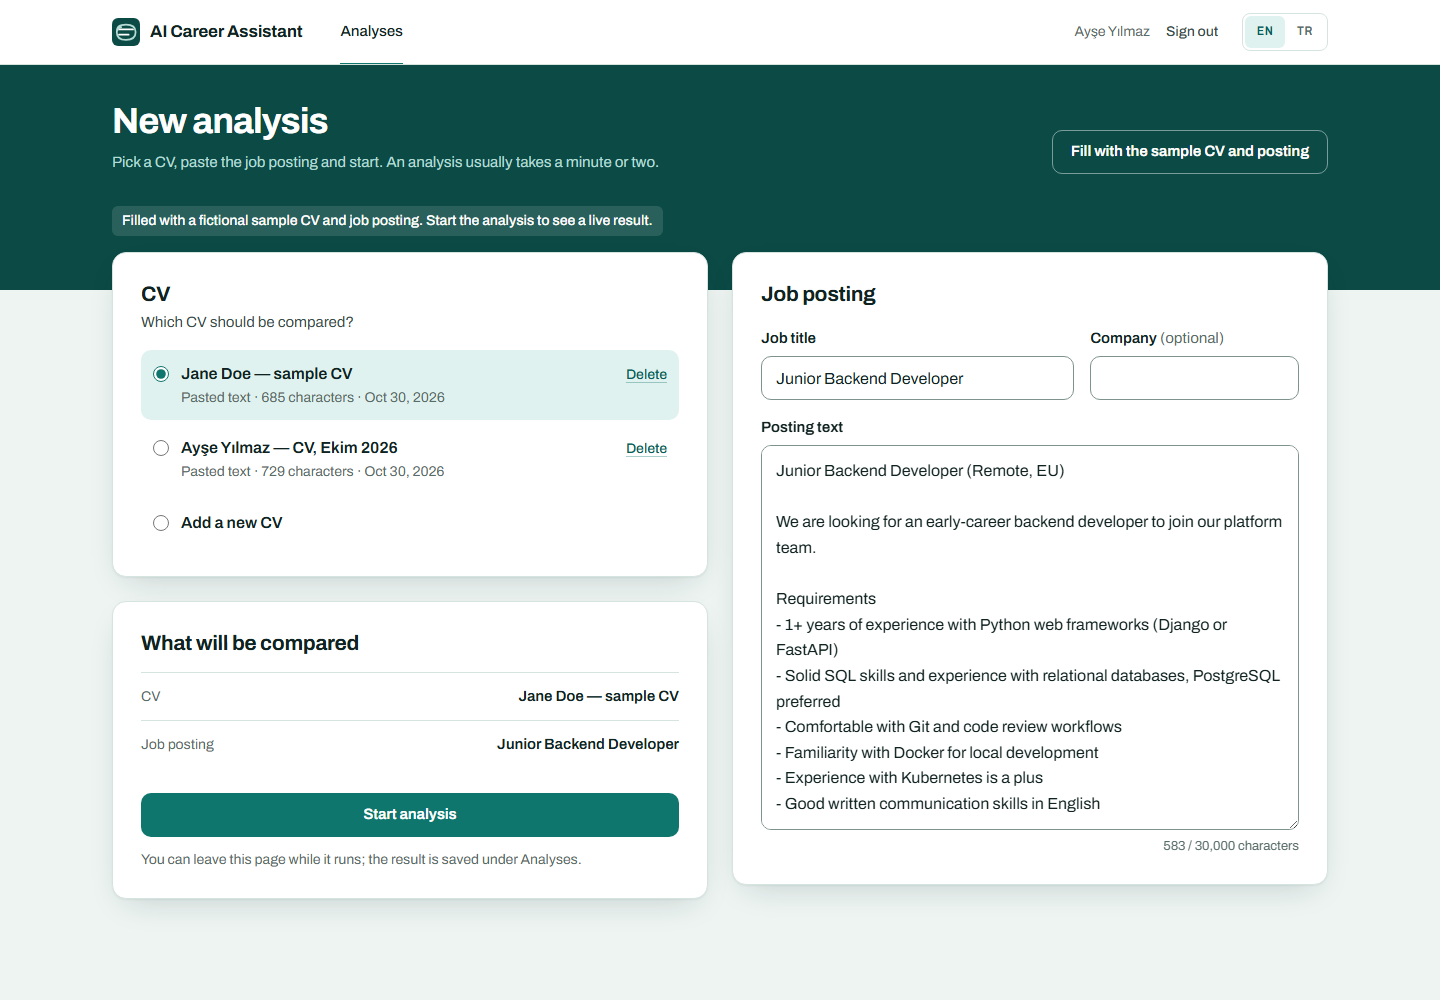
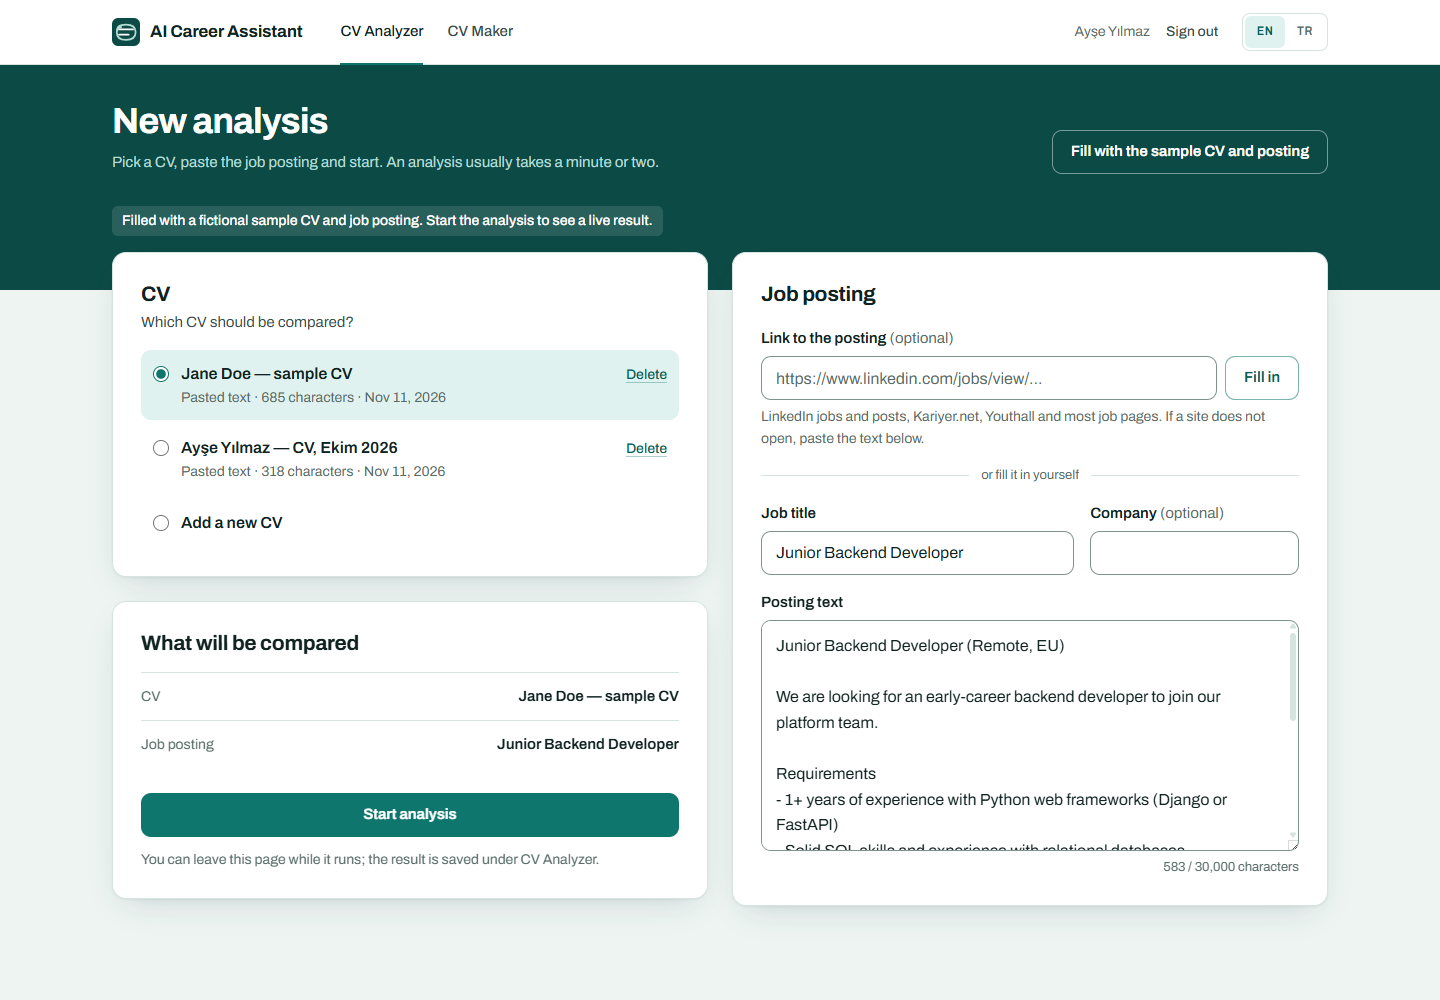
docs: describe the CV Maker and tailoring in the README
- add the CV Maker to what the app does, how a CV is written for a
  posting, and the tailoring evaluation
- add a capture of a tailored CV and retake New analysis with the new
  top bar names

diff --git a/README.md b/README.md
@@ -1,6 +1,6 @@
 # AI Career Assistant
 
-A web and Android app that compares a CV with a job posting and shows, requirement by requirement, which CV lines support it, what is missing, and what to change before applying. Built for students and early-career candidates, in English and Turkish.
+A web and Android app that compares a CV with a job posting and shows, requirement by requirement, which CV lines support it, what is missing, and what to change before applying. On the web, a CV Maker turns the CV into an editable document and can write a version of it for the posting. Built for students and early-career candidates, in English and Turkish.
 
 Instead of an unexplained "87% fit", every judgement points at the CV lines it relied on, unsupported claims are marked missing instead of trusted, and the score comes from a stated formula computed by code, not by the model.
 
@@ -9,6 +9,8 @@ Instead of an unexplained "87% fit", every judgement points at the CV lines it r
 ![Web: the sample result. The score with its fit level and a bar of every requirement, a short summary, and what to fix first as priority cards.](docs/screenshots/web-result.png)
 
 ![Web: every requirement with its status beside the CV. The selected requirement's reason is pinned on the CV and the words that support it are highlighted.](docs/screenshots/web-evidence.png)
+
+![Web: a CV written for the sample posting in the CV Maker. Lines the AI added or embellished are listed as things to be ready to talk about, beside a live preview of the one-page PDF.](docs/screenshots/web-cv-editor.png)
 
 <p>
   <img src="docs/screenshots/mobile-result.png" width="250" alt="Android: the sample result with the score, the summary and the requirement bar">
@@ -32,6 +34,8 @@ Instead of an unexplained "87% fit", every judgement points at the CV lines it r
 5. The result leads with **what to fix**: prioritized changes tied to a requirement and a CV section.
 6. Interview questions are generated on request, aimed at the gaps.
 7. A result can be printed or saved as PDF from the web: a plain document with the score, the fixes and, for every requirement, the reason and the CV lines it relied on.
+8. **CV Maker** (web): a saved CV is copied into an editable CV, or a new one starts from a blank page. Three print templates (Classic, Modern, Standard) render to PDF on the server, with a live preview beside the form.
+9. **A CV for a posting:** from a result, the AI writes a version of the CV for that posting, in the posting's language. Every line it wrote or changed stays marked in the editor, and the analysis score does not change.
 
 AI-written text follows the interface language (English or Turkish); requirement wording and CV quotes stay in their source language. Both clients use the same API, and the account remembers the language across devices.
 
@@ -58,6 +62,27 @@ CV ───────────► extract evidence lines (LLM, copied verb
 - **Provider abstraction:** a Gemini implementation and a deterministic fake for tests. Free-tier quotas are per model, so requests run through a fallback chain ordered by measured reliability.
 - **No vector database:** a CV has 5 to 25 evidence lines and embeddings are only needed during one run, so vectors are compared in memory and never stored.
 
+## How a CV is written for a posting
+
+```text
+saved CV ──► structure into fields (LLM, validated JSON) ──► fact check (code): employers, schools, roles,
+                                                              degrees and years must appear in the CV text
+                                                                       ▼
+                         editable CV document (JSON) ──► live preview and PDF (Typst, three templates)
+
+analysis + CV document ──► tailor (LLM): text only, written into slots referenced by id
+                                                                       ▼
+        assemble (code): employers, schools, dates, links and project names copied from the source CV
+                                                                       ▼
+        origin per line: from your CV / reworded / embellished by AI / added by AI
+```
+
+- **The model writes text, code copies facts.** The tailoring output has no field for an employer, a school or a date, so it cannot invent one; code takes them from the user's CV. A line the model claims to have copied but that is not in the source is relabelled.
+- **Origins stay visible.** Every line the model touched keeps its mark in the editor and appears in a "be ready to talk about" list. The PDF carries no labels.
+- **Two modes.** Flexible (the default) may write the summary and skills freely and lightly embellish projects and experience; strict keeps only the user's own lines and asks yes/no questions instead.
+- **The score does not move.** The analysis is always computed from the user's own CV, never from generated content.
+- **The import is checked too.** Names and years the CV text does not show are reported, and a section the model calls "not carried over" is dropped from that note when the section was in fact filled.
+
 ## Evaluation
 
 Five hand-labelled cases (`services/api/app/ai/eval/cases/`): a good-fit backend intern, a partial-fit mobile developer, a weak-fit ML engineer, a Turkish data-analyst internship with Turkish output, and a Turkish frontend internship that asks for a GitHub link. `python -m app.ai.eval.run_eval --provider gemini` reports:
@@ -74,6 +99,17 @@ Five hand-labelled cases (`services/api/app/ai/eval/cases/`): a good-fit backend
 
 Five cases are a smoke check, not a benchmark, and model output is not deterministic. The set earns its keep by catching regressions: the Turkish case exposed the retrieval miss above (status accuracy 0.83 on that case) before hybrid retrieval fixed it, and the GitHub case guards a fix for links: a real CV's GitHub link was judged missing because the prompt had no "link" evidence type and the project links sat behind PDF icons that text extraction does not return.
 
+Tailoring has its own run (`python -m app.ai.eval.run_tailor_eval --provider gemini`): each case is structured, analysed and tailored in both modes, and the Turkish CVs are also written for English postings, 12 runs in all.
+
+| Metric | What it checks | Latest real run |
+|---|---|---|
+| Validity | the answer fit the schema and could be assembled into a CV | 1.0 |
+| Invented entities | employers, schools, dates, project or certificate names that are not in the source CV | 0 |
+| Posting keywords | share of the posting's keywords the CV contains, before → after | 0.563 → 0.647 |
+| Added share | lines the model added or embellished, flexible / strict | 0.345 / 0 |
+| Language match | the CV is written in the posting's language | 1.0 |
+| One page | the PDF fits on one page | 12 / 12 |
+
 ## Architecture
 
 One shared backend, two independent clients; domain rules live only in the API.
@@ -87,6 +123,7 @@ services/api    FastAPI backend: auth, documents, AI pipeline, persistence
 - **Backend:** Python 3.12+, FastAPI, SQLAlchemy 2, Alembic, PostgreSQL. Analyses run as background tasks; clients poll until they finish (the mobile app pauses polling in the background).
 - **AI:** Google Gemini free tier for structured LLM output and embeddings, behind a provider interface.
 - **Auth:** email/password with bcrypt and JWT bearer tokens; every query is scoped to the signed-in user.
+- **CV documents:** stored as validated JSON on one row per CV. PDFs, page previews and list thumbnails are typeset on the server with Typst: one cached compiler per template and bundled open fonts only, so the output does not depend on the machine.
 - **Design:** one visual system for both clients (a deep teal brand band, white cards on a pale teal ground, green / amber / red for matched / partial / missing). Status is also carried by the icon's shape (check, half disc, cross), never by colour alone.
 
 ## Key decisions
@@ -96,6 +133,7 @@ services/api    FastAPI backend: auth, documents, AI pipeline, persistence
 - **Background task + polling** instead of a queue or websockets: one instance on a free tier does not need more.
 - **Output language stored per analysis,** so a result never changes language after a settings switch and one page never mixes languages.
 - **No shared demo account:** a public pre-computed sample result, and after registering one tap fills the form with a fictional sample CV and posting.
+- **Typst for PDFs:** a small native Python wheel with no TeX installation; the CV goes in as JSON, and the same renderer draws the PDF, the live preview and the list thumbnails.
 
 ## Local setup (backend)
 
@@ -141,6 +179,7 @@ The web client is a Next.js 16 app (App Router, TypeScript, Tailwind CSS 4). The
 
 - Register at `/en/register`, then start an analysis from **New analysis**. "Fill with the sample CV and posting" runs the fictional sample live.
 - The session token lives in an httpOnly cookie and every API call is made by the Next.js server, so the browser never sees the token. Set `API_BASE_URL` in `apps/web/.env.local` if the API is not on `http://localhost:8000` (see `.env.example`).
+- The CV Maker is at `/en/cvs`. A completed analysis offers **Write a CV for this posting** in its header.
 - Without an account, the pre-computed sample result is at `/en/analyses/sample`. Add `?preview=running`, `failed`, `no-questions` or `questions-error` to see the other states.
 
 ## Local setup (mobile)
@@ -185,7 +224,8 @@ The demo runs on free tiers: Neon (PostgreSQL), Render (API, from `render.yaml`)
 
 - **Free AI tier and personal data.** The default provider is Gemini's free tier. Under Google's terms for unpaid services, submitted content may be used to improve Google's products and may be read by human reviewers. Use fictional or anonymized CVs for demos; a paid tier or a self-hosted model would be needed for real personal data.
 - **Speed depends on the free tier.** An analysis takes from a few seconds to a few minutes, depending on which models in the fallback chain are overloaded or out of quota.
-- **Security is portfolio-grade.** Passwords are hashed with bcrypt (at most 72 bytes, which bcrypt reads), the web client keeps the token in an httpOnly cookie and sends anti-framing and nosniff headers, the API refuses bodies over 6 MB and hides its schema pages in production. Usage limits (10 failed sign-ins per email in 15 minutes; 20 analyses and 20 question sets per user a day; 30 link reads per user an hour) are counted in memory, so they reset when the single free instance restarts. There are no refresh tokens or audit logs.
+- **Security is portfolio-grade.** Passwords are hashed with bcrypt (at most 72 bytes, which bcrypt reads), the web client keeps the token in an httpOnly cookie and sends anti-framing and nosniff headers, the API refuses bodies over 6 MB and hides its schema pages in production. Usage limits (10 failed sign-ins per email in 15 minutes; 20 analyses, 20 question sets and 10 AI-written CVs per user a day; 30 link reads per user an hour) are counted in memory, so they reset when the single free instance restarts. There are no refresh tokens or audit logs.
+- **The CV Maker is on the web only.** The Android app covers analyses; CV documents are not on mobile yet.
 - **Mobile is Android only and was verified on an emulator.** iOS would need a Mac to build; PDF picking and gestures still need a pass on a real phone.
 - **Filling a posting from a link depends on the site.** The server reads one public page per request, the way a link preview does: schema.org `JobPosting` data first, then known layouts (LinkedIn jobs and posts, Kariyer.net), then the page's main text. Sites behind bot protection (Indeed, Glassdoor and Yenibiriş behind Cloudflare; Kariyer.net behind PerimeterX, which refuses after a few requests) are not worked around: the user is told so and pastes the text. Private and internal addresses are refused on every redirect hop, and the address actually connected to is checked again before the response is used; the connection is not pinned to the checked address, so under DNS rebinding a request can still reach an internal address, but its answer is discarded.
 - **CV and posting language is not detected.** Only AI-written text is tagged with a language; source text inherits the interface language for screen readers.
